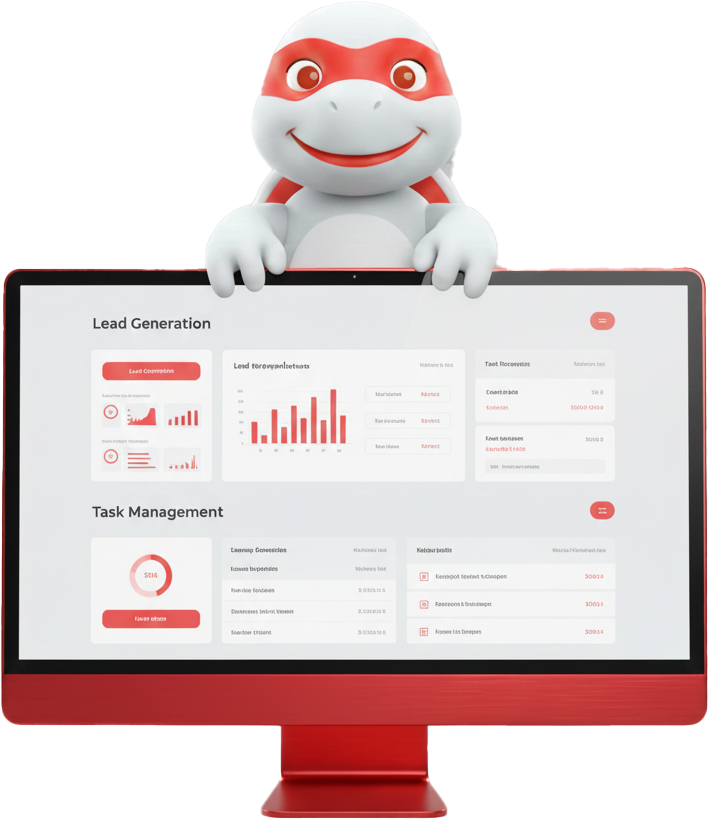
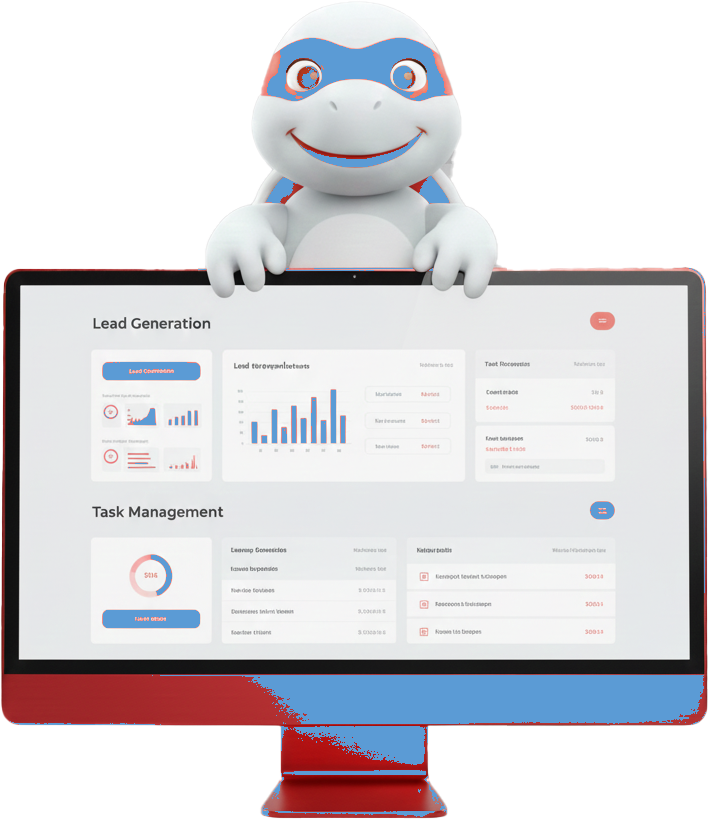
Recolor feature images red to blue, fix carousel image fit, remove free trial CTAs, reduce card heights

diff --git a/src/components/StackingCards.tsx b/src/components/StackingCards.tsx
@@ -49,21 +49,21 @@ return (
         <h2 className="text-4xl md:text-5xl font-bold mb-3">
           Everything You Need to Grow
         </h2>
-        <p className="text-lg md:text-xl opacity-90">
+        <p className="text-lg md:text-xl text-black">
           Stop juggling multiple tools. Ai Bunty brings it all together.
         </p>
       </div>
 
       <div 
         ref={cardsRef}
-        className="stacking-cards-container max-w-7xl mx-auto px-5 py-10 md:py-16 grid md:grid-cols-2 lg:grid-cols-3 gap-6 md:pt-20 md:pb-10"
+        className="stacking-cards-container max-w-7xl mx-auto px-5 py-8 md:py-14 grid md:grid-cols-2 lg:grid-cols-3 gap-5 md:pt-14 md:pb-8"
       >
         {features.map((feature, index) => {
           const Icon = feature.icon;
           return (
             <div
               key={index}
-              className="stacking-card bg-card rounded-2xl p-8 shadow-soft border border-border transition-all duration-300 hover:shadow-hover hover:-translate-y-1"
+              className="stacking-card bg-card rounded-2xl p-6 shadow-soft border border-border transition-all duration-300 hover:shadow-hover hover:-translate-y-1"
               style={{
                 ['--card-index' as string]: index,
               }}
@@ -86,8 +86,8 @@ return (
         @media (max-width: 768px) {
           .stacking-cards-container {
             display: block;
-            padding-top: 100px;
-            min-height: 200vh;
+            padding-top: 80px;
+            min-height: 170vh;
           }
 
           .stacking-card {
@@ -97,21 +97,21 @@ return (
             transition: transform 0.3s ease, opacity 0.3s ease;
           }
 
-          .stacking-card:nth-child(1) { top: 80px; z-index: 12; }
-          .stacking-card:nth-child(2) { top: 85px; z-index: 11; }
-          .stacking-card:nth-child(3) { top: 90px; z-index: 10; }
-          .stacking-card:nth-child(4) { top: 95px; z-index: 9; }
-          .stacking-card:nth-child(5) { top: 100px; z-index: 8; }
-          .stacking-card:nth-child(6) { top: 105px; z-index: 7; }
-          .stacking-card:nth-child(7) { top: 110px; z-index: 6; }
-          .stacking-card:nth-child(8) { top: 115px; z-index: 5; }
-          .stacking-card:nth-child(9) { top: 120px; z-index: 4; }
-          .stacking-card:nth-child(10) { top: 125px; z-index: 3; }
-          .stacking-card:nth-child(11) { top: 130px; z-index: 2; }
-          .stacking-card:nth-child(12) { top: 135px; z-index: 1; }
-          .stacking-card:nth-child(13) { top: 140px; z-index: 0; }
-          .stacking-card:nth-child(14) { top: 145px; z-index: -1; }
-          .stacking-card:nth-child(15) { top: 150px; z-index: -2; }
+          .stacking-card:nth-child(1) { top: 60px; z-index: 12; }
+          .stacking-card:nth-child(2) { top: 64px; z-index: 11; }
+          .stacking-card:nth-child(3) { top: 68px; z-index: 10; }
+          .stacking-card:nth-child(4) { top: 72px; z-index: 9; }
+          .stacking-card:nth-child(5) { top: 76px; z-index: 8; }
+          .stacking-card:nth-child(6) { top: 80px; z-index: 7; }
+          .stacking-card:nth-child(7) { top: 84px; z-index: 6; }
+          .stacking-card:nth-child(8) { top: 88px; z-index: 5; }
+          .stacking-card:nth-child(9) { top: 92px; z-index: 4; }
+          .stacking-card:nth-child(10) { top: 96px; z-index: 3; }
+          .stacking-card:nth-child(11) { top: 100px; z-index: 2; }
+          .stacking-card:nth-child(12) { top: 104px; z-index: 1; }
+          .stacking-card:nth-child(13) { top: 108px; z-index: 0; }
+          .stacking-card:nth-child(14) { top: 112px; z-index: -1; }
+          .stacking-card:nth-child(15) { top: 116px; z-index: -2; }
 
           .stacking-card.stacking {
             transform: scale(0.95);

diff --git a/src/pages/Index.tsx b/src/pages/Index.tsx
@@ -400,16 +400,16 @@ const Index = () => {
             </p>
           </div>
           
-          <div className="solutions-grid md:grid md:grid-cols-2 lg:grid-cols-3 gap-6">
+          <div className="solutions-grid md:grid md:grid-cols-2 lg:grid-cols-3 gap-5">
             {solutions.map((solution, index) => (
               <GlassCard key={solution.name} interactive className="solution-card" style={{ ['--card-index' as string]: index }}>
                 <Link 
                   to={solution.href}
-                  className="glass-card-content p-4 md:p-6 flex items-center justify-between group h-full"
+                  className="glass-card-content p-3 md:p-4 flex items-center justify-between group h-full"
                 >
                   <div className="flex items-center gap-3 md:gap-4">
-                    <div className="w-9 h-9 md:w-10 md:h-10 bg-primary/20 rounded-lg flex items-center justify-center flex-shrink-0">
-                      <solution.icon className="w-4 h-4 md:w-5 md:h-5 text-primary" />
+                    <div className="w-8 h-8 md:w-9 md:h-9 bg-primary/20 rounded-lg flex items-center justify-center flex-shrink-0">
+                      <solution.icon className="w-4 h-4 text-primary" />
                     </div>
                     <span className="font-semibold text-foreground text-sm md:text-base">{solution.name}</span>
                   </div>

diff --git a/src/components/FeatureCarousel.tsx b/src/components/FeatureCarousel.tsx
@@ -124,11 +124,11 @@ export function FeatureCarousel({ features }: FeatureCarouselProps) {
             {currentFeature && (
               <>
                 {/* Image Container */}
-                <div className="flex-shrink-0 mb-6 rounded-lg overflow-hidden bg-muted h-64 md:h-72 flex items-center justify-center">
+                <div className="flex-shrink-0 mb-6 rounded-lg overflow-hidden bg-white h-64 md:h-80 flex items-center justify-center">
                   <img
                     src={currentFeature.image}
                     alt={currentFeature.title}
-                    className="w-full h-full object-cover hover:scale-105 transition-transform duration-300"
+                    className="w-full h-full object-contain transition-transform duration-300"
                   />
                 </div>
 

diff --git a/src/pages/Pricing.tsx b/src/pages/Pricing.tsx
@@ -18,7 +18,7 @@ const plans = [
       "WhatsApp Integration",
       "Email Support",
     ],
-    cta: "Start Free Trial",
+    cta: "Book Demo",
     popular: false,
   },
   {
@@ -35,7 +35,7 @@ const plans = [
       "Payment Integration",
       "Priority Support",
     ],
-    cta: "Start Free Trial",
+    cta: "Book Demo",
     popular: true,
   },
   {
@@ -67,7 +67,7 @@ export default function PricingPage() {
               Simple, Transparent Pricing
             </h1>
             <p className="text-xl text-muted-foreground">
-              Choose the plan that fits your business. All plans include a 14-day free trial.
+              Choose the plan that fits your business.
             </p>
           </div>
         </div>

diff --git a/src/components/CTASection.tsx b/src/components/CTASection.tsx
@@ -13,16 +13,10 @@ export function CTASection() {
               Join thousands of companies already using D'CORE Systems to power their AI initiatives
             </p>
             <div className="cta-actions">
-              <DCoreButton variant="primary" size="large">
-                Start Free Trial
-              </DCoreButton>
               <DCoreButton variant="secondary" size="large">
                 Schedule Demo
               </DCoreButton>
             </div>
-            <p className="cta-note">
-              No credit card required • 14-day free trial • Cancel anytime
-            </p>
           </div>
         </GlassCard>
       </div>

diff --git a/src/components/HeroSection.tsx b/src/components/HeroSection.tsx
@@ -21,9 +21,6 @@ export function HeroSection() {
           </p>
 
           <div className="hero-buttons">
-            <DCoreButton variant="primary" size="large">
-              Start Free Trial
-            </DCoreButton>
             <DCoreButton variant="secondary" size="large">
               Watch Demo
             </DCoreButton>
